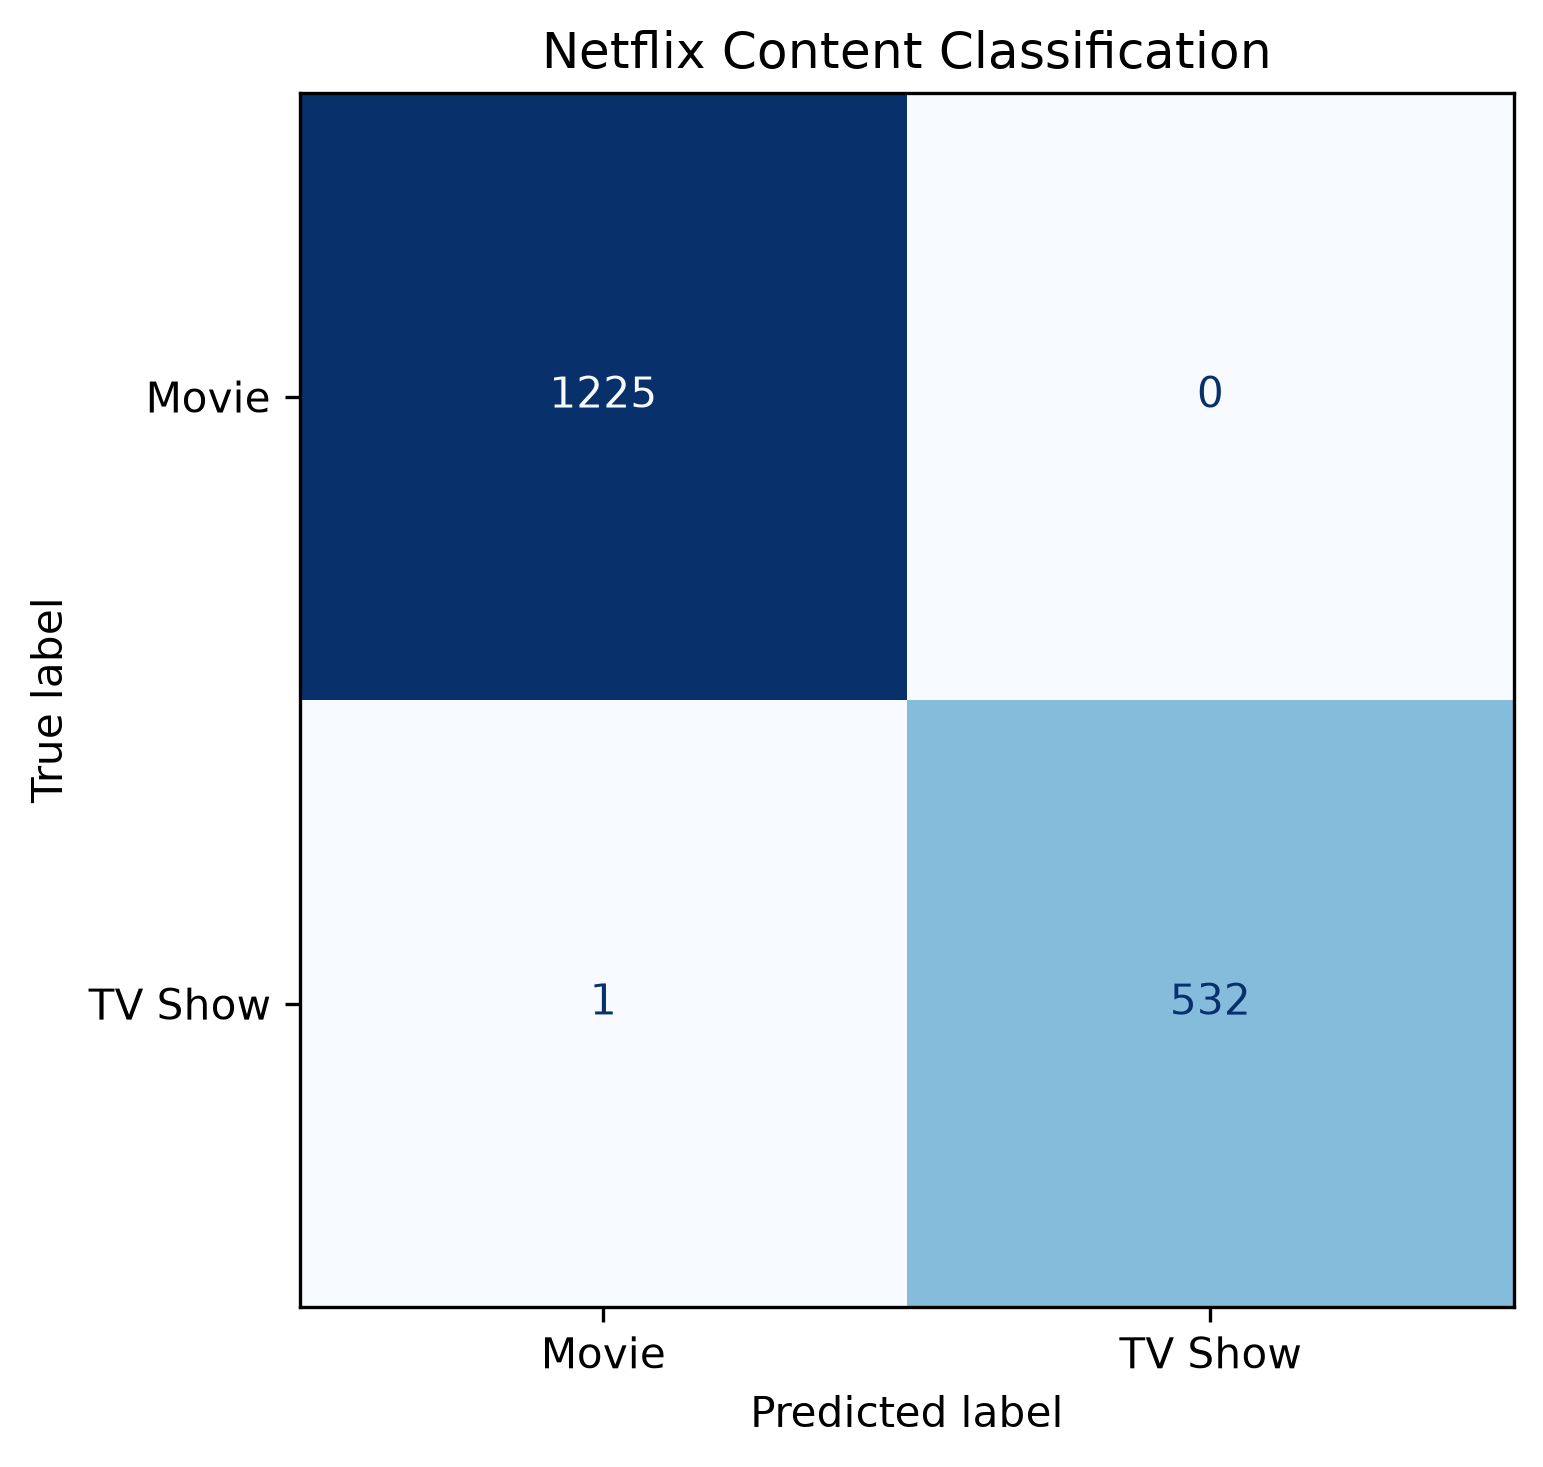
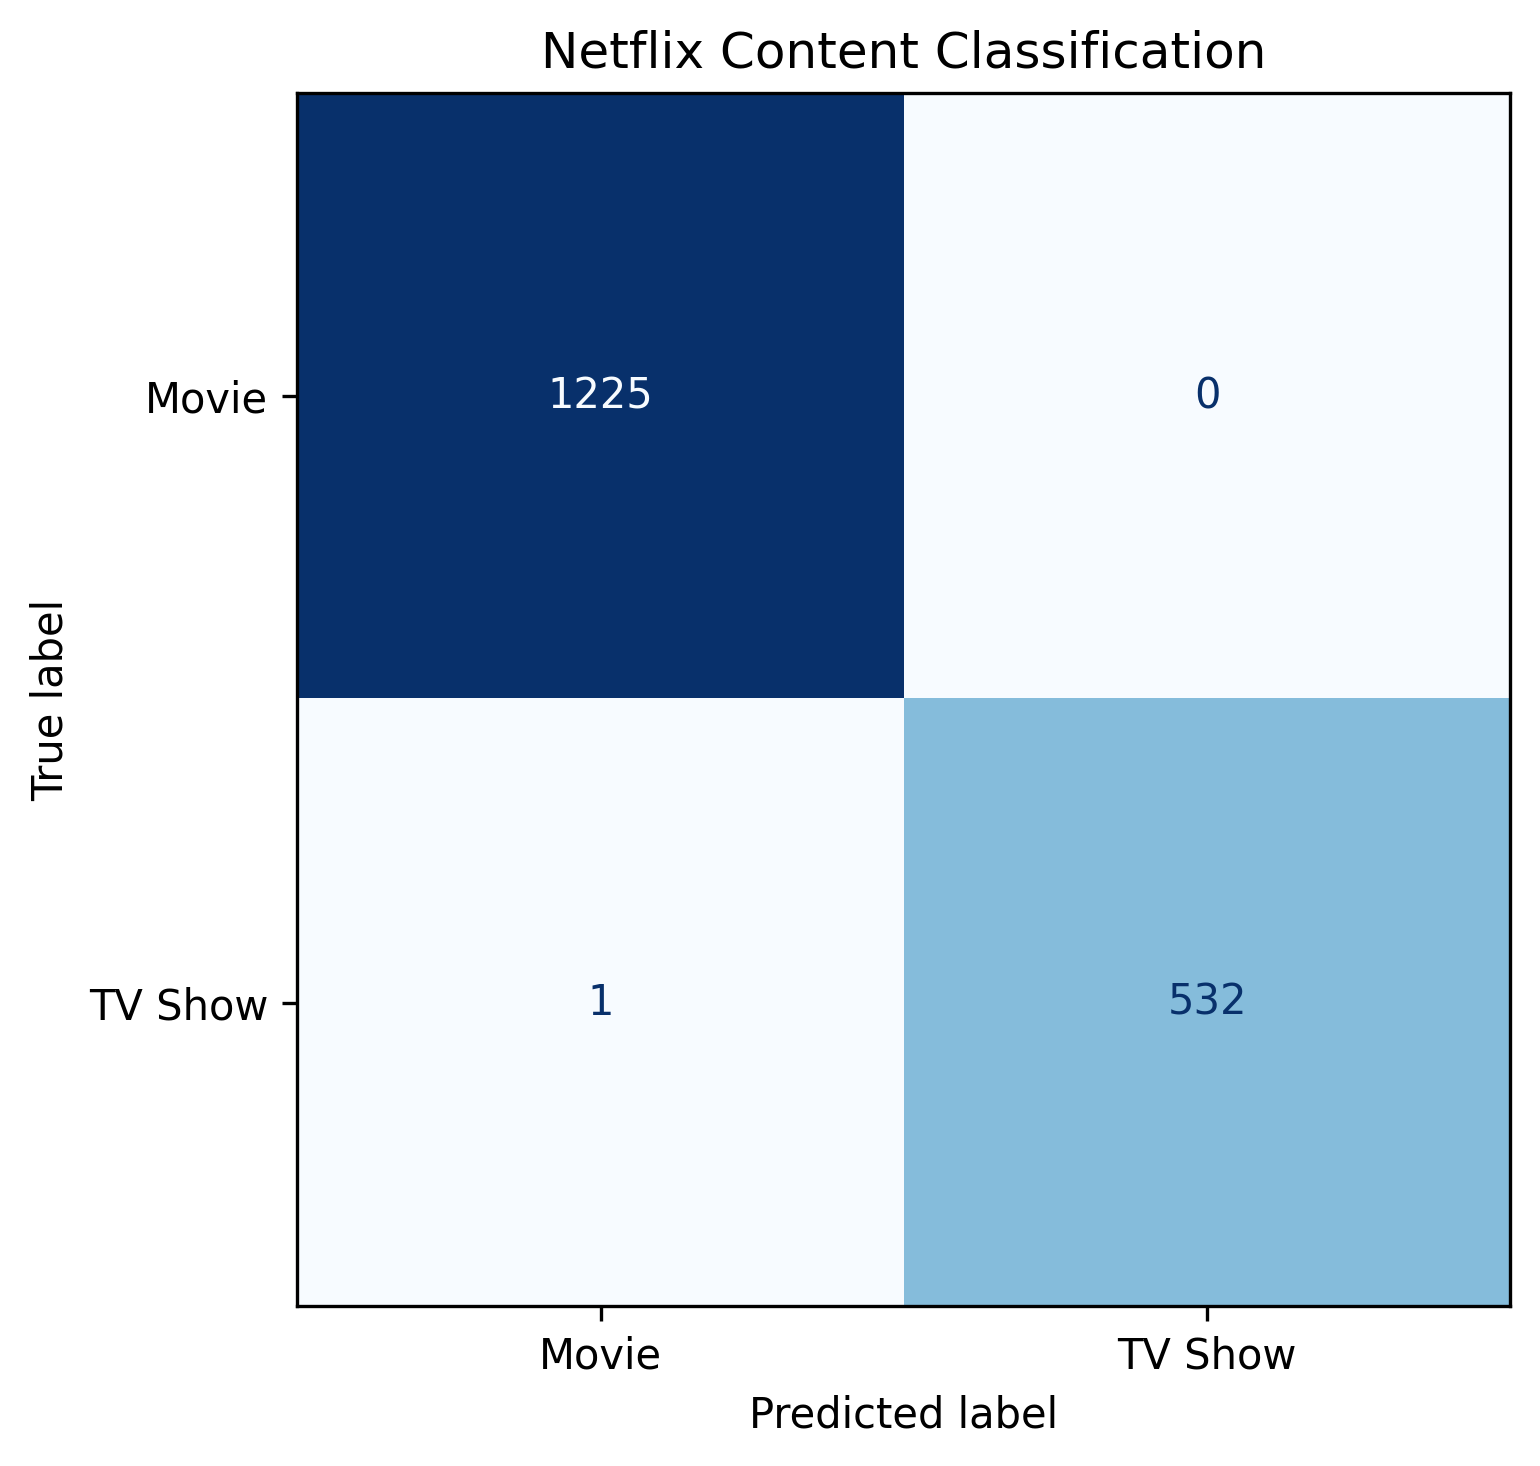
Improve Task 5 classification evaluation

diff --git a/task5_classification.py b/task5_classification.py
@@ -5,7 +5,7 @@ import os
 import pandas as pd
 import matplotlib.pyplot as plt
 
-from sklearn.model_selection import train_test_split
+from sklearn.model_selection import train_test_split, StratifiedKFold, cross_val_score
 from sklearn.compose import ColumnTransformer
 from sklearn.pipeline import Pipeline
 from sklearn.preprocessing import OneHotEncoder, StandardScaler
@@ -67,7 +67,7 @@ X = df[features].copy()
 y = df["type"].copy()
 
 # Convert text/categorical values to consistent format
-for col in X.select_dtypes(include=["object", "str"]).columns:
+for col in X.select_dtypes(include=["object"]).columns:
     X[col] = X[col].fillna("Unknown").astype(str).str.strip()
     X[col] = X[col].replace("", "Unknown")
 
@@ -177,6 +177,31 @@ print("\nTraining the classification model...")
 
 model.fit(X_train, y_train)
 
+# --------------------------------------------------
+# Additional Evaluation: 5-Fold Cross-Validation
+# --------------------------------------------------
+
+cv = StratifiedKFold(
+    n_splits=5,
+    shuffle=True,
+    random_state=42
+)
+
+print("\nRunning 5-fold cross-validation...")
+
+cv_scores = cross_val_score(
+    model,
+    X_train,
+    y_train,
+    cv=cv,
+    scoring="accuracy",
+    n_jobs=-1
+)
+
+print("Cross-validation scores:", cv_scores)
+print(f"Mean CV accuracy: {cv_scores.mean() * 100:.2f}%")
+print(f"CV standard deviation: {cv_scores.std() * 100:.2f}%")
+
 print("Model training completed successfully!")
 
 # --------------------------------------------------
@@ -283,7 +308,7 @@ verification_features = [
 X_verify = df[verification_features].copy()
 y_verify = df["type"].copy()
 
-for col in X_verify.select_dtypes(include=["object", "str"]).columns:
+for col in X_verify.select_dtypes(include=["object"]).columns:
     X_verify[col] = (
         X_verify[col]
         .fillna("Unknown")

diff --git a/README.md b/README.md
@@ -181,20 +181,48 @@ Analyze historical release-year patterns and explore a simple forecasting approa
 
 **Difficulty:** Advanced
 
-Build and compare classification models using selected features from the dataset.
+Build a machine learning classification model to predict whether a Netflix title is a Movie or TV Show using selected dataset features.
 
 **Key Activities**
-- Prepare model features.
-- Handle missing and categorical values where required.
-- Split the data into training and testing sets.
-- Train classification models.
-- Evaluate and compare model performance.
 
-**Technologies:** Python, Pandas, Scikit-learn
+- Prepare model features and target labels.
+- Handle missing and categorical values through preprocessing pipelines.
+- Split the dataset into training and testing sets.
+- Train a Logistic Regression classifier.
+- Evaluate model performance using accuracy, classification reports, and a confusion matrix.
+- Perform 5-fold stratified cross-validation.
+- Compare results with an additional experiment that excludes the `listed_in` feature.
+
+**Technologies:** Python, Pandas, Scikit-learn, Matplotlib
+
+**Model Configuration**
+
+- **Target:** `type` (Movie or TV Show)
+- **Original features:** `listed_in`, `release_year`, `rating`, `duration`, `country`
+- **Algorithm:** Logistic Regression
+- **Train-test split:** 80% training, 20% testing
+- **Dataset size:** 8,790 rows
+
+**Results**
+
+| Evaluation | Accuracy |
+|---|---:|
+| Original model — test set | 99.94% |
+| Original model — 5-fold cross-validation mean | 100.00% |
+| Model without `listed_in` — test set | 99.89% |
+| Model without `listed_in` — 5-fold cross-validation mean | 99.82% |
+
+The original model achieved 99.94% accuracy on the held-out test set. An additional experiment without `listed_in` achieved 99.89% test accuracy, indicating that the remaining features are also highly informative for distinguishing Movies from TV Shows.
+
+**Generated Outputs**
+
+- [Classification Report](outputs/task5_classification_report.txt)
+- [Confusion Matrix](outputs/task5_confusion_matrix.png)
+- [Classification Predictions](outputs/task5_classification_predictions.csv)
 
 **Evaluation Considerations**
 
-Classification results depend on the selected target variable, feature selection, preprocessing, and validation strategy. High scores should be examined for potential data leakage and overfitting.
+The reported metrics were obtained using splits of the same dataset. The cross-validation results are based on the training set and do not constitute independent external validation. The very high scores should be interpreted in the context of the dataset's feature patterns; performance on unseen external data has not been established.
 
 **Screenshots:** [`screenshots/Task5_Classification/`](screenshots/Task5_Classification/)
 
